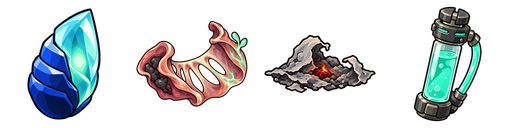
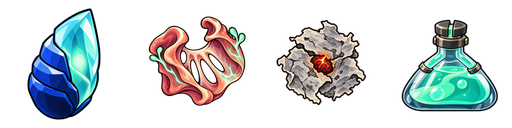
art(issue238): integrate all nine approved final assets

Changed region(s): [[0.25, 0.125, 0.75, 0.8438], [0.7812, 0.0312, 1.0, 0.9688]]

diff --git a/shin-getter-mod-godot/tools/validate_issue_238_assets.py b/shin-getter-mod-godot/tools/validate_issue_238_assets.py
@@ -1,4 +1,4 @@
-"""Offline candidate-art contracts. Does not import Godot, approve art, or deploy."""
+"""Offline final-art integration contracts. Does not import Godot or deploy."""
 from pathlib import Path
 from io import BytesIO
 import hashlib
@@ -32,6 +32,15 @@ def checked_image(path, size):
 def validate():
     manifest = json.loads(MANIFEST.read_text(encoding="utf-8"))
     require(len(manifest["cards"]) == 5 and len(manifest["icons"]) == 4, "five cards and four item icons")
+    require(manifest["human_approval"] == "approved_Artanis_all_nine_20261102"
+            and manifest["production_export_ready"], "final approved/exported selection required")
+    selected_jobs = {"SGC_TabletOfTruth": "ART-007", "SGC_TripleCyclone": "ART-027",
+                     "SGC_DrillMissile": "ART-037", "SGC_BrokenDrill": "ART-001", "SGC_Annotations": "ART-016",
+                     "SGR_ActivatedSapphire": "ART-005", "SGR_SymbioticFilter": "ART-009",
+                     "SGR_Ember": "ART-017", "SGR_MobilityCatalyst": "ART-008"}
+    for item in manifest["cards"] + manifest["icons"]:
+        require(item["job"] == selected_jobs[item["model"]] and item["human_approval"] == "approved_Artanis"
+                and len(item["approved_source_sha256"]) == 64, "final human selection drifted")
     atlas = manifest["card_atlas"]
     path = REPO / atlas["path"]
     require(digest(path) == atlas["sha256"], "candidate card atlas receipt mismatch")
@@ -109,7 +118,7 @@ def validate():
     require(all(j["independent_qa"] in ("approved", "approved-selected-item-only") for j in manifest["art_jobs"]),
             "unreviewed candidate art selected")
     require(not manifest["deployed"], "feature receipt must not claim deployment")
-    print("issue#238 candidate assets: 5 native card entries / 4 item icons; SHA, dimensions, alpha, fixed-slot preservation PASS (human review pending)")
+    print("issue#238 final approved assets: 5 native card entries / 4 item icons; SHA, dimensions, alpha, fixed-slot preservation PASS (game display not verified)")
 
 
 if __name__ == "__main__":

diff --git a/art_sources/issue238-v140-20261101/review-r5-map-save-and-final-art-20261102.md b/art_sources/issue238-v140-20261101/review-r5-map-save-and-final-art-20261102.md
@@ -1,0 +1,28 @@
+# issue#238 R5 保存域修复与最终美术接入
+
+2026-11-02：Artanis通过最后一张钻头飞弹ART-037，并明确恢复完整工单开发。当前支线包含原15事件/20路线、5卡/3遗物/1药水、32篇旧事件/46页三语更新，以及先前审核修复；本轮没有另改这些事件的数值或奖励设计。整个issue仍需独立审核和真实运行验收。
+
+## 本轮实现
+
+- `SaveFourth`不再额外调用一次ToSave制造expected。真实原生`RunManager.ToSave`后置边界按活动run与同一detached checkpoint引用登记这次DTO，在原生写入前立即冻结完整expected；direct `LoadRunSave`返回后立即冻结readback。
+- `SerializableMapPoint.can_modify`仅在本次登记对象图内显式写出false。所有Acts/Points/Boss/Start/SecondBoss均按对象引用登记到FrozenSet；域外沿用原ShouldSerialize/default规则，不修改地图值或原生全局默认。AsyncLocal token在finally撤销，已捕获子ExecutionContext也失效；嵌套恢复外层。
+- 正常Continue还会直接保存SerializableRun。正式109实际入口名称是`SetUpSavedSinglePlayer`，与旧源码快照的大小写不同，已通过实际DLL反射及原生MoveNext验证。本补丁只适配该方法内唯一`IncrementNumReloads`调用，携带原本的RunManager/RunState引用；检查单玩家、同一输入保存、seed/owner/坐标/history/visit/事件/v1戳/当前journal后，包住原生重存任务。不读尚未初始化的NetService，不改NumReloads、batch或异常顺序。
+- 完整比较仍只容许save_time/run_time变化；地图/事件池/RNG/经济/历史等全部保留。比较器提供实际expected/readback的完整二进制JSON、稳定字节、显式地图值侧表与全部差异路径。字符串摘要仅给长度/SHA。诊断sink写入失败不改原比较裁定；Saved之后校验失败仍不得回滚内存并重开发奖路线。
+- 九件最终批准美术已按原版资源入口接入，来源和导出SHA写入manifest。5个250×190固定卡牌区块及4个128图标/轮廓区块更新，其他卡牌图集像素不变。3个遗物大图为256×256。批准源没有覆盖；ART-033旧压缩失败保留，ART-037新源三档试压均成功并选75–80档。
+
+## 自检与局限
+
[1 lines of base64/hex data omitted]
+- `validate_issue_238.py`：15实际ModelDb IDs及3错负向、15事件/20路线、存档/三语/当前剧情结构通过；保存源码合同新增为23种不安全回归负例。`validate_issue_238_assets.py`核最终9件选择、SHA/尺寸/透明/轮廓/固定区块保留。
+- 实际生产保存域的CLR检查覆盖缓存metadata、外来引用、八路异步+普通并发、嵌套异常、取消、捕获上下文/延迟Task撤销与四字段完整差异诊断。真实原生singleplayer MoveNext→IncrementNumReloads→SaveRun在内存存储中执行，owned false保留、unowned仍native省略、reload计数一次、调用者无域泄漏。
+- ToSave登记的离线检查仍是明确DTO直调夹具，没有把场景相关ToSave完整执行说成已过。原生reload探针在共享初始化前主动中止，并跳过PeerInputSynchronizer构造以隔离Godot logger。未启动游戏、写磁盘存档或完成真实Continue。先前未隔离该构造而触发的CLR/Godot fatal原始log保留，属于探针环境失败，没有据此修改生产网络或日志。
+- 实时Vault核对仍为15个v1.4.0事件，15份Nov1设计段与实施输入相符；旧32篇/46页剧情scene hash全部相符。三份内容笔记中的技术修订（钻头真龙分身、破碎钻头仅draw、批注提交前后取消）与既有R2代码一致，未复活旧效果。两篇打回重设计的完整候选在事件笔记单独展示，仍待Artanis内容批准。
+
+## 交主开发后的最小运行链
+
+1. 独立源码/正式109编译及完整补丁准入后，新隔离输入、仅ShinGetterMod和披露驱动。
+2. 自然Unknown派生芳香，UI选Deck目标，生产SaveFourth候选固定；捕获真实pre-write/direct readback快照与所有diff。
+3. 原生Skip/重入，正常Pause/SaveAndQuit/Continue，核同房间、visit/History/池/RNG/经济不变；真实确认一次6HP及变形，再Continue核完成页、费用/奖励仅一次。
+4. 共享保存代表只补候选固定家族、目标/完成家族及Stone清理必要代表；既有R2/R3/R4已过子项保留，不重跑全矩阵。禁driver额外SaveRun、改/替换生产save、强制finished或Selector代答制造PASS。
+
+29da原生产读回FAIL、6db错房、旧CompletionTask/console切房超时/缺exit收据、资源ERROR与ShaderMaterial P1均保留，不因本轮CLR或美术批准解除。协议版本隔离仍是对外分发前置。未PR、合并、共享部署、Tag或发布。

diff --git a/art_sources/issue238-v140-20261101/README.md b/art_sources/issue238-v140-20261101/README.md
@@ -1,12 +1,12 @@
-# issue#238 v1.4.0 candidate art
+# issue#238 v1.4.0 approved art integration
 
-These resources are review candidates. Artanis has not approved them. No shared asset library, Excel workbook, deployment, or release was modified.
+All nine selected artworks have Artanis's approval, completed on 2026-11-02 with Drill Missile ART-037. They are integrated only into the isolated feature branch. No shared asset library, Excel workbook, deployment, or release was modified.
 
-The existing card-design chat produced five new illustrations (ART-001/002). The existing icon-management chat produced three relics and one potion (ART-003/004). Independent visual QA accepted the Symbiotic Filter and Mobility Catalyst, then requested revisions to the sapphire's four-beat structure and Ember's campfire-like shape. ART-005 redrew only those two items and passed a second independent review. The original rejected versions remain in the project archive.
+Final cards: Tablet of Truth ART-007, Triple Cyclone ART-027, Drill Missile ART-037, Broken Drill ART-001 and Annotations ART-016. Final icons: Activated Sapphire ART-005, Symbiotic Filter ART-009, Ember ART-017 and Mobility Catalyst ART-008. Earlier candidates and rejected revisions remain in the external production archive.
 
-`manifest.json` records selected files, source SHA-256 hashes, independent review receipts, and pending human approval. ART-003's acceptance applies only to Symbiotic Filter; its overall rejected status is retained in the receipt.
+`manifest.json` records the selected source/export hashes, human approval and review receipts. ART-009's acceptance applies only to the selected Symbiotic Filter; its original overall revision-requested verdict remains recorded. ART-037's visual preview approval and its later production export verification are separate. The previous ART-033 compression failure is preserved in the export archive; the approved ART-037 source passed all three standard quality bands, with 75–80 selected.
 
-Cards use native per-model portrait paths and atlas entries. Full portraits are 1000×760 RGB/indexed PNG without alpha. Slots 78–82 contain 250×190 thumbnails. All other decoded pixels, including fixed Ancient slots 67/68/72/77, match main at `26c8da9a`.
+Cards use native per-model portrait paths and atlas entries. Full portraits are 1000×760 indexed PNG without alpha or tRNS. Slots 78–82 contain 250×190 thumbnails. All other decoded pixels, including fixed Ancient slots 67/68/72/77, match main at `26c8da9a`. Four approved indexed portraits were copied losslessly; only Drill Missile's approved RGB portrait required quantization. Thumbnails were derived from the selected production portraits.
 
 Item icons use an independent 512×128 atlas and matching outline atlas, ordered Activated Sapphire, Symbiotic Filter, Ember, Mobility Catalyst. Each region is 128×128 with transparent borders. Relic large icons are 256×256. Existing shared icon atlases remain unchanged.
 
@@ -19,8 +19,8 @@ Offline checks performed:
 - Authored JSON / color-tag balance / inline-payload scan: PASS.
 - `git diff --check`: PASS.
 
-DLL compilation, Godot import/resource loading, real gameplay, save/resume and chained-effect acceptance belong to the main development chat and remain pending. The manifest version stays at the current main version; release versioning is not performed by this feature branch.
+Godot import/resource loading, real display, gameplay and save/resume acceptance remain subject to the main development chat's independent review and runtime admission. The separately authorized formal109 compile and CLR checks for this save fix are documented in `review-r5-map-save-and-final-art-20261102.md`; they do not constitute real-game acceptance. The manifest version stays at the current main version; release versioning is not performed by this feature branch.
 
 This branch carries the previously unmerged issue#238 implementation as well as the Nov 1 continuation. Review against `origin/main...HEAD`; integrating only the final incremental commit would omit required earlier implementation.
 
-Human review gallery: `游戏/杀戮尖塔2/开发工单/issue238-v1.4.0-美术审核清单.md` in the `all-in-one` Obsidian vault. The two redesigned events, Self-Help Book and Stone of Eternity, also await Artanis review.
+Human review gallery: `游戏/杀戮尖塔2/开发工单/issue238-v1.4.0-美术审核清单.md` in the `all-in-one` Obsidian vault. Self-Help Book and Stone of Eternity's redesigned stories await separate Artanis content review.

diff --git a/art_sources/issue238-v140-20261101/acceptance-coverage-20261101.md b/art_sources/issue238-v140-20261101/acceptance-coverage-20261101.md
@@ -1,5 +1,11 @@
 # issue#238 完整覆盖台账
 
+## 2026-11-02 R5更新
+
+本轮已完成owned地图false保存域、真实pre-write/direct readback捕获与完整差异诊断、Continue原生reload重存接入，并接入全部九件最终通过美术。正式109编译0w0e、CLR内存探针及静态/资源结构检查通过；尚未证明真实游戏恢复通过。具体范围见`review-r5-map-save-and-final-art-20261102.md`。
+
+九件美术已由Artanis逐件批准；自助指南、永恒之石两篇故事人工审核分列。以下R2/R3旧覆盖表保留为历史起点，已过子项与FAIL/ASSISTED_ONLY/NOT_RUN边界不抹除。主开发当前运行裁定仍为29da生产读回FAIL，后续由新候选独立准入及最小运行链更新。
+
 日期：2026-11-01。当前依据为看板v1.4.0、11月1日设计、现行代码和主开发R2最终裁定。实现/静态、实际行为、物理输入/视觉、Artanis人工批准和发布分开。下列“待核”表示此轮证据不能确认该完整范围，先检索主开发已有有效证据，再决定最小补测；不是命令重跑20路线矩阵，也不反向声称过去从未执行。
 
 ## 15事件／20路线
